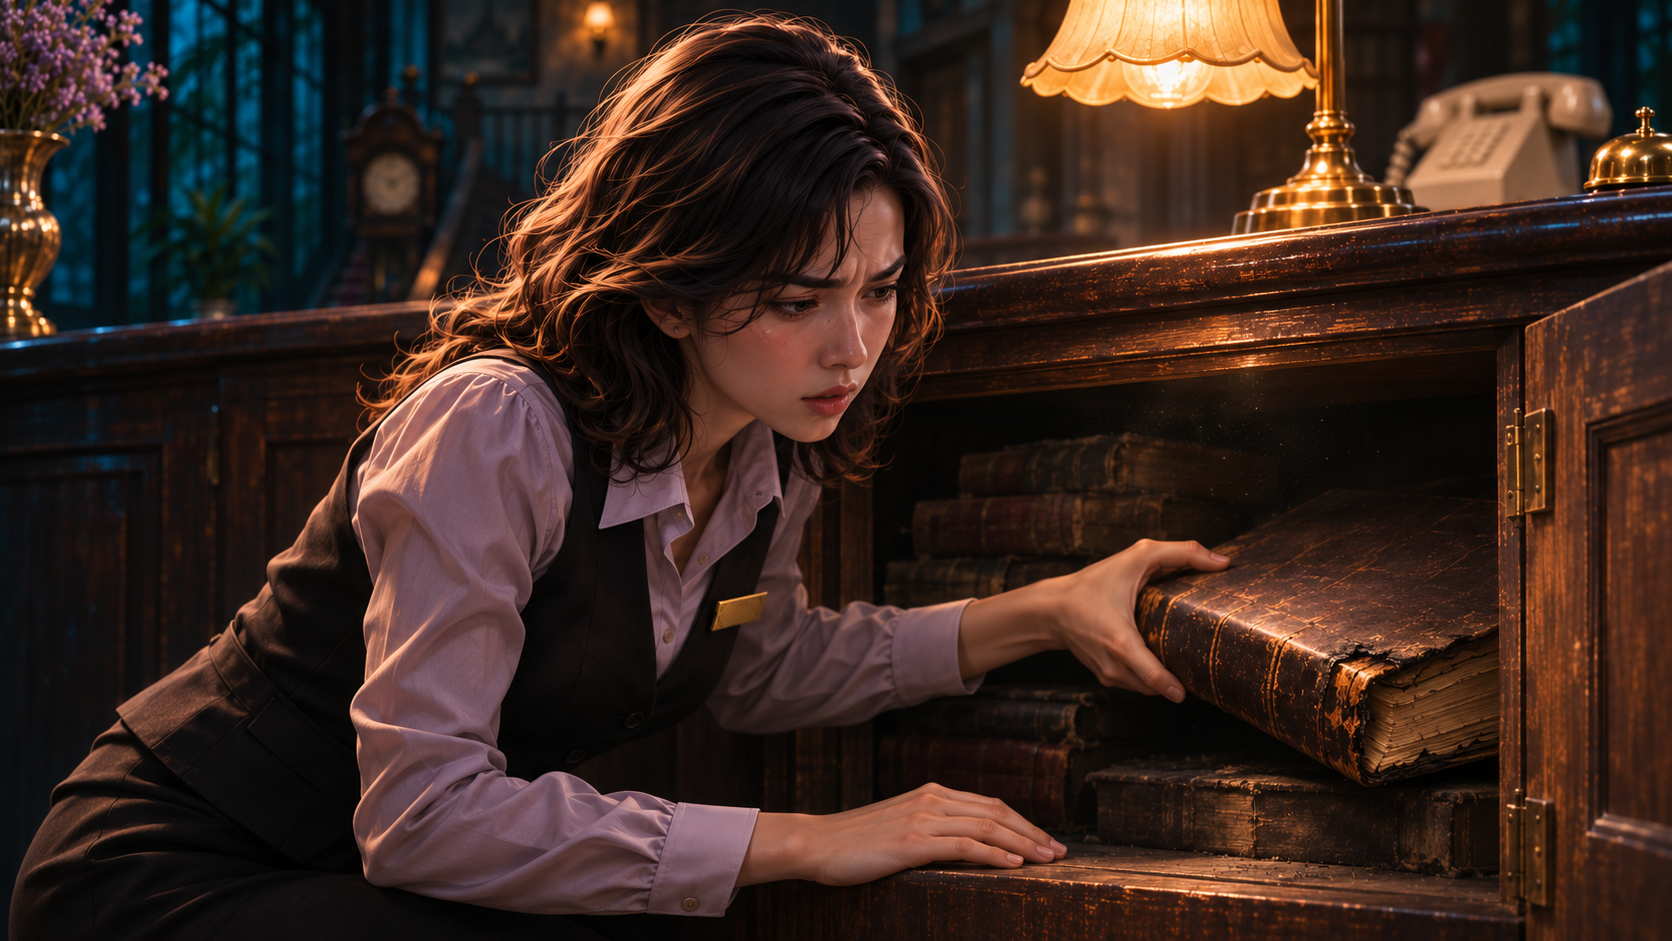
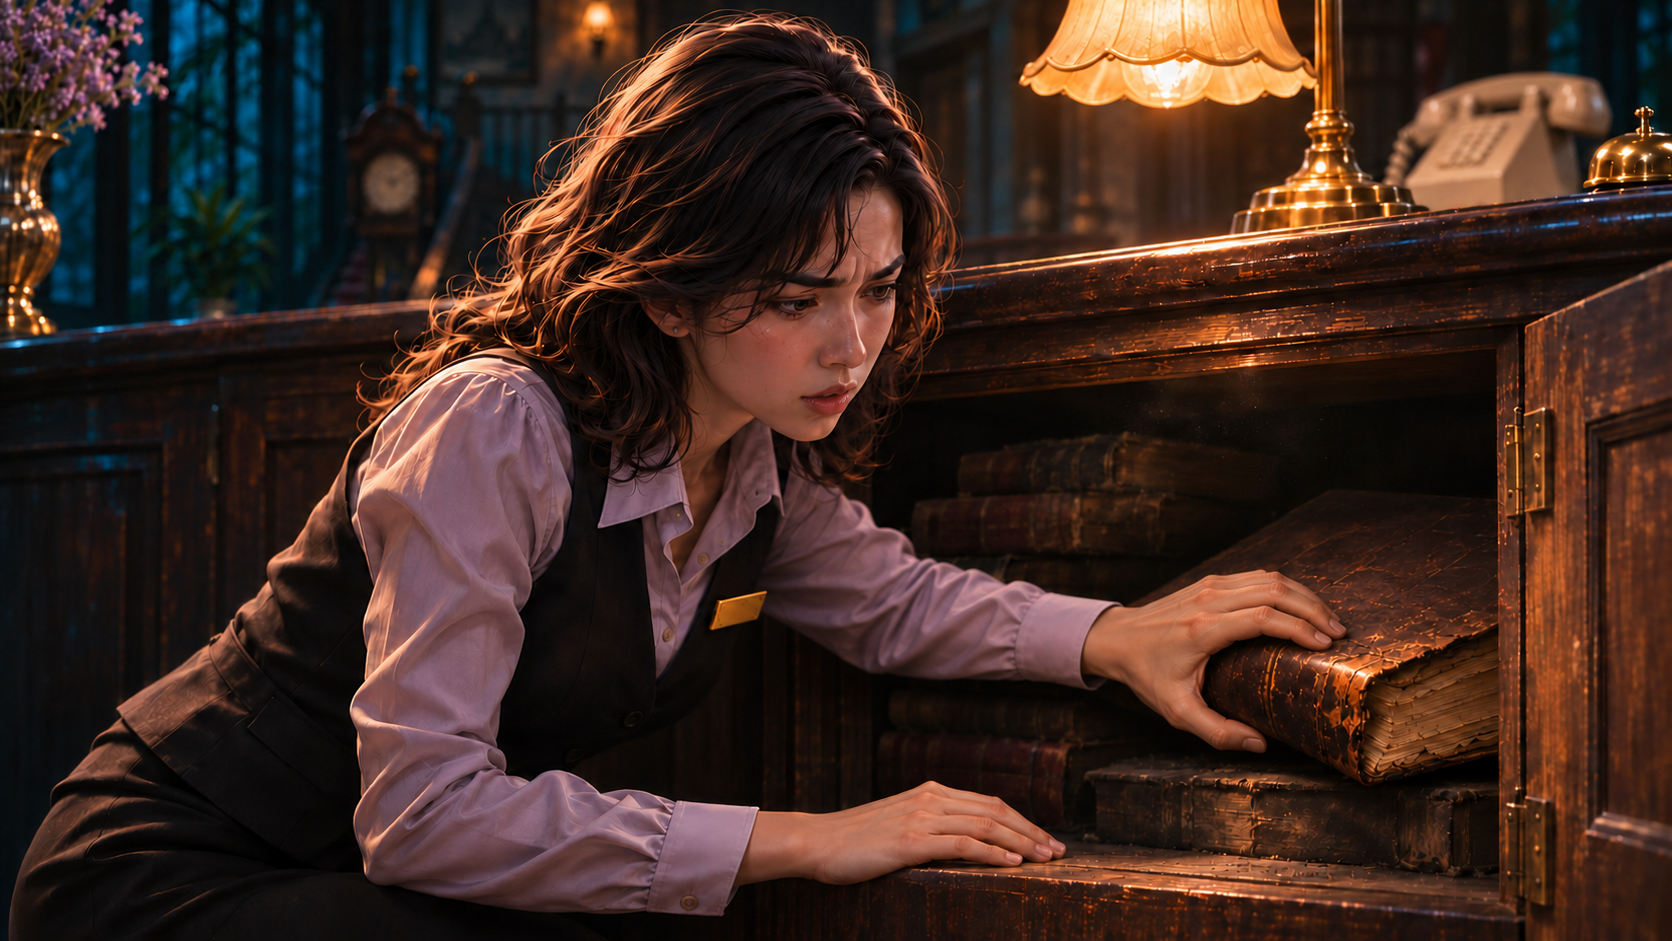
Replace E01_Maysa_archive.png with user-approved left-hand correction v3

diff --git a/episodes/hotel13/v1.3/production/full/review/batch_03.md b/episodes/hotel13/v1.3/production/full/review/batch_03.md
@@ -2,7 +2,7 @@
 
 [กลับหน้ารวม](README.md)
 
-ภาพทุกภาพในหน้านี้ยังรอผู้ใช้ตรวจ ก่อนนำไปตัดต่อเพิ่ม
+ภาพที่ยังไม่อนุมัติในหน้านี้ต้องรอผู้ใช้ตรวจ ก่อนนำไปตัดต่อเพิ่ม
 
 ## D06_Maysa_Lin_blanket_v2 — เมษานั่งคุยกับลินข้างเคาน์เตอร์
 
@@ -28,7 +28,7 @@
 
 <img src="../assets/D09_old_staff_photo.png" width="800" alt="D09_old_staff_photo" />
 
-## E01_Maysa_archive — ค้นทะเบียนเก่าใต้เคาน์เตอร์
+## E01_Maysa_archive — ค้นทะเบียนเก่าใต้เคาน์เตอร์ — ผู้ใช้อนุมัติแล้ว (v3)
 
 [เปิดภาพต้นฉบับ](../assets/E01_Maysa_archive.png)
 

diff --git a/episodes/hotel13/v1.3/production/full/archive/README.md b/episodes/hotel13/v1.3/production/full/archive/README.md
@@ -14,3 +14,5 @@
 - [I04_Pim_key_grip](I04_Pim_key_grip.png): User pinpointed extra thumb at x39.5%,y42.7%; previous visual review missed it. Must replace before edit.
 - [I06_Maysa_returnskey](I06_Maysa_returnskey.png): Maysa anatomy/key return good, but telephone handset missing from base after call ended; restore handset for continuity.
 - [I08_manager_trapped](I08_manager_trapped.png): User correction: hand at x60.6%,y35.7% appears through door. Replaced by v2 with hidden arm.
+- [E01_Maysa_archive_v2](E01_Maysa_archive_v2.png): User rejected handedness at x68.6%,y65.3%; supporting grip still reads as wrong hand.
+- [E01_Maysa_archive_original](E01_Maysa_archive_original.png): Original malformed left-hand grip replaced by user-approved v3 under canonical filename.

diff --git a/episodes/hotel13/v1.3/production/full/review/README.md b/episodes/hotel13/v1.3/production/full/review/README.md
@@ -8,6 +8,8 @@
 
 ## จุดที่แก้ตามความคิดเห็นล่าสุด
 
+- [E01 — มือซ้ายจับสมุด ฉบับ v3 ที่ผู้ใช้อนุมัติ บันทึกทับชื่อไฟล์เดิมแล้ว](../assets/E01_Maysa_archive.png)
+
 - [I02 — สมุดหันเข้าหาเมษา ท่าเขียนธรรมชาติ ไม่เน้นข้อมูลให้อ่านได้](../assets/I02_Maysa_writing_v2.png)
 
 - [I04 — เอานิ้วโป้งผู้จัดการที่ซ้ำออก](../assets/I04_Pim_key_grip_v2.png)

diff --git a/episodes/hotel13/v1.3/production/full/review/batch_09.md b/episodes/hotel13/v1.3/production/full/review/batch_09.md
@@ -2,7 +2,7 @@
 
 [กลับหน้ารวม](README.md)
 
-ภาพทุกภาพในหน้านี้ยังรอผู้ใช้ตรวจ ก่อนนำไปตัดต่อเพิ่ม
+ภาพที่ยังไม่อนุมัติในหน้านี้ต้องรอผู้ใช้ตรวจ ก่อนนำไปตัดต่อเพิ่ม
 
 ## I08_manager_trapped_v2 — ผู้จัดการติดอยู่หลังประตู — เอามือที่ทะลุบานประตูออก
 

diff --git a/episodes/hotel13/v1.3/production/full/review/batch_04.md b/episodes/hotel13/v1.3/production/full/review/batch_04.md
@@ -2,7 +2,7 @@
 
 [กลับหน้ารวม](README.md)
 
-ภาพทุกภาพในหน้านี้ยังรอผู้ใช้ตรวจ ก่อนนำไปตัดต่อเพิ่ม
+ภาพที่ยังไม่อนุมัติในหน้านี้ต้องรอผู้ใช้ตรวจ ก่อนนำไปตัดต่อเพิ่ม
 
 ## E02_charred_ledger_v2 — ทะเบียนขอบไหม้และช่องออกที่ยังว่าง
 

diff --git a/episodes/hotel13/v1.3/production/full/review/batch_07.md b/episodes/hotel13/v1.3/production/full/review/batch_07.md
@@ -2,7 +2,7 @@
 
 [กลับหน้ารวม](README.md)
 
-ภาพทุกภาพในหน้านี้ยังรอผู้ใช้ตรวจ ก่อนนำไปตัดต่อเพิ่ม
+ภาพที่ยังไม่อนุมัติในหน้านี้ต้องรอผู้ใช้ตรวจ ก่อนนำไปตัดต่อเพิ่ม
 
 ## H03_office_papers_v2 — รายงานไฟไหม้และจดหมายที่เขียนไม่จบ
 

diff --git a/episodes/hotel13/v1.3/production/full/review/batch_05.md b/episodes/hotel13/v1.3/production/full/review/batch_05.md
@@ -2,7 +2,7 @@
 
 [กลับหน้ารวม](README.md)
 
-ภาพทุกภาพในหน้านี้ยังรอผู้ใช้ตรวจ ก่อนนำไปตัดต่อเพิ่ม
+ภาพที่ยังไม่อนุมัติในหน้านี้ต้องรอผู้ใช้ตรวจ ก่อนนำไปตัดต่อเพิ่ม
 
 ## F01_manager_office — ผู้จัดการปรากฏที่ประตูสำนักงาน
 

diff --git a/episodes/hotel13/v1.3/production/full/review/batch_01.md b/episodes/hotel13/v1.3/production/full/review/batch_01.md
@@ -2,7 +2,7 @@
 
 [กลับหน้ารวม](README.md)
 
-ภาพทุกภาพในหน้านี้ยังรอผู้ใช้ตรวจ ก่อนนำไปตัดต่อเพิ่ม
+ภาพที่ยังไม่อนุมัติในหน้านี้ต้องรอผู้ใช้ตรวจ ก่อนนำไปตัดต่อเพิ่ม
 
 ## B01_contract — เมษาเซ็นสัญญาและรับเครื่องแบบ
 

diff --git a/episodes/hotel13/v1.3/production/full/review/batch_06.md b/episodes/hotel13/v1.3/production/full/review/batch_06.md
@@ -2,7 +2,7 @@
 
 [กลับหน้ารวม](README.md)
 
-ภาพทุกภาพในหน้านี้ยังรอผู้ใช้ตรวจ ก่อนนำไปตัดต่อเพิ่ม
+ภาพที่ยังไม่อนุมัติในหน้านี้ต้องรอผู้ใช้ตรวจ ก่อนนำไปตัดต่อเพิ่ม
 
 ## G02_Lin_sleep — ลินหลับและเมษากลับมานั่งข้าง
 

diff --git a/episodes/hotel13/v1.3/production/full/review/batch_02.md b/episodes/hotel13/v1.3/production/full/review/batch_02.md
@@ -2,7 +2,7 @@
 
 [กลับหน้ารวม](README.md)
 
-ภาพทุกภาพในหน้านี้ยังรอผู้ใช้ตรวจ ก่อนนำไปตัดต่อเพิ่ม
+ภาพที่ยังไม่อนุมัติในหน้านี้ต้องรอผู้ใช้ตรวจ ก่อนนำไปตัดต่อเพิ่ม
 
 ## C03_Maysa_key_v2 — เมษาถือกุญแจไว้ฝั่งพนักงาน
 

diff --git a/episodes/hotel13/v1.3/production/full/review/batch_08.md b/episodes/hotel13/v1.3/production/full/review/batch_08.md
@@ -2,7 +2,7 @@
 
 [กลับหน้ารวม](README.md)
 
-ภาพทุกภาพในหน้านี้ยังรอผู้ใช้ตรวจ ก่อนนำไปตัดต่อเพิ่ม
+ภาพที่ยังไม่อนุมัติในหน้านี้ต้องรอผู้ใช้ตรวจ ก่อนนำไปตัดต่อเพิ่ม
 
 ## I03_Phakhin_blocks_v2 — ภาคินขวางผู้จัดการ
 
